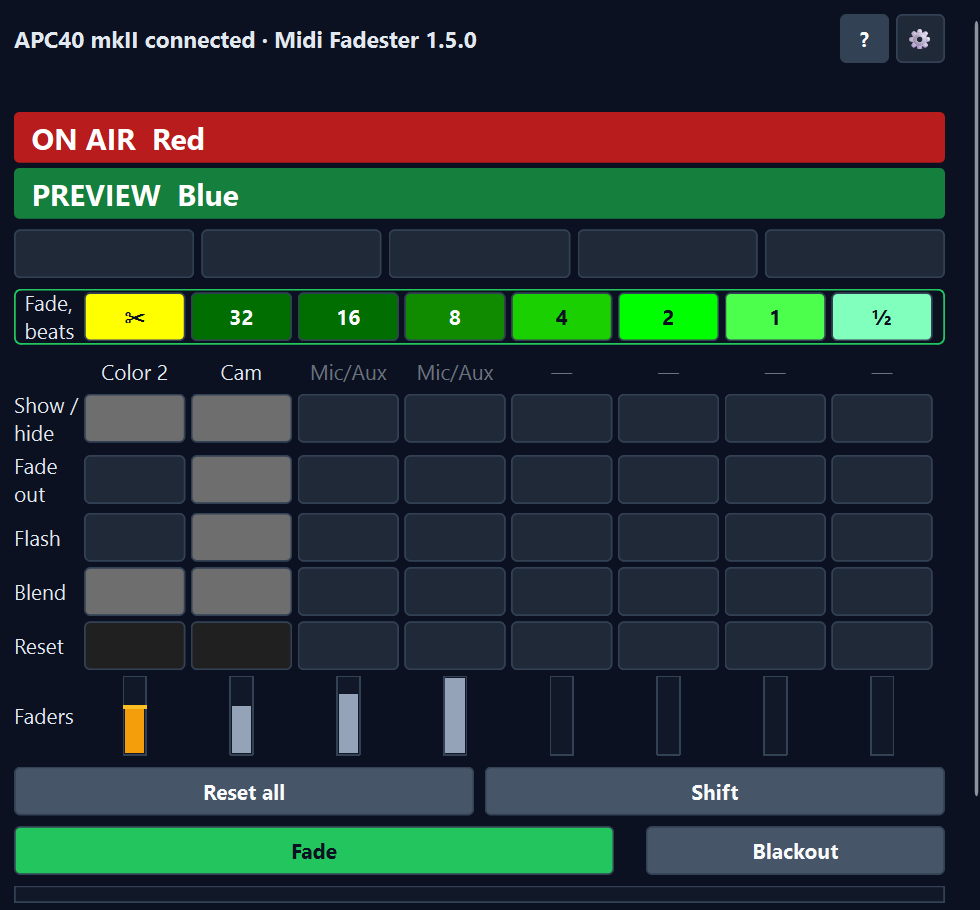
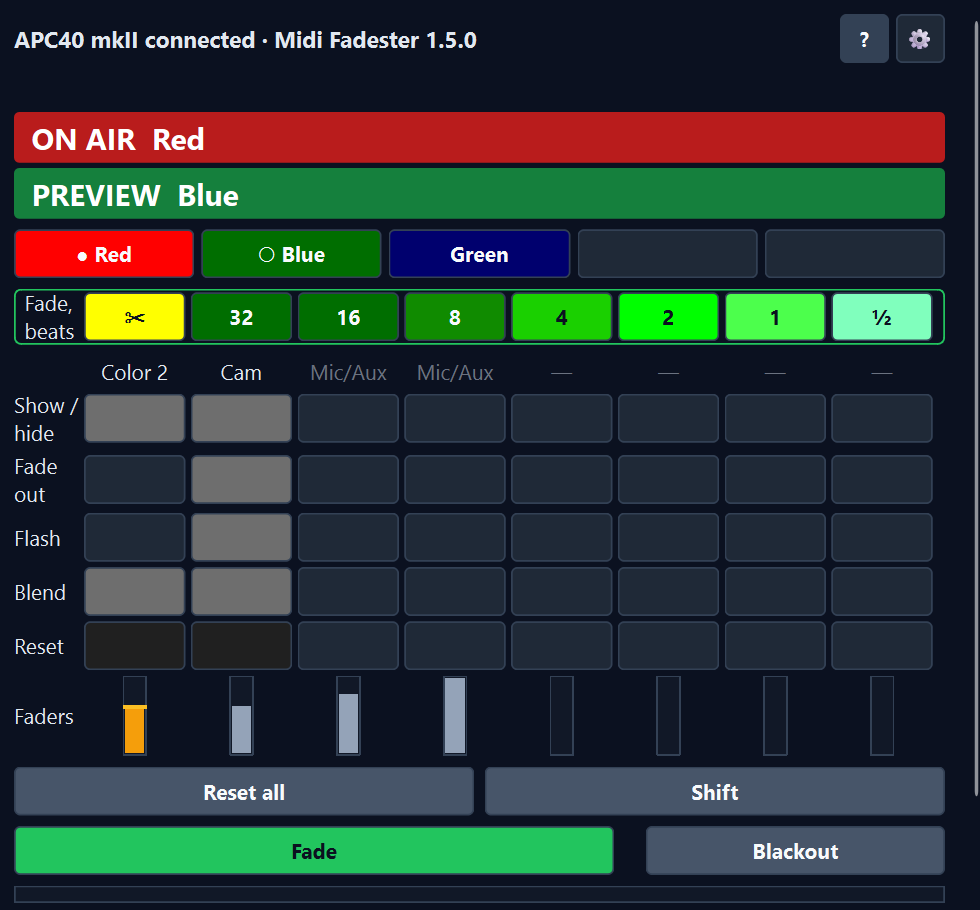
Release QA: the version on the Import and Export windows; release notes say exactly what the dock has
- The Import and Export file windows and their two warning boxes carry the version in their title, as every
  other Midi Fadester window does.
- README: Fade out, Cut out and Dark (hold) are pad rows, not buttons; a tooltip names the APC40's word where
  the two differ; Fade needs Studio Mode; the demo was recorded on a 0.9.1 development build.
- TESTING State 13: caption for the 1.5.0 dock; the picture's scene buttons now show three scenes (the test
  gives the dock a scene list for the render).
- Checked against the 0.9.0 tag: the error-code table and the ten request names are identical.

Changed region(s): [[0.0, 0.2462, 0.5816, 0.3077]]

diff --git a/src/ui/mfd-settings-dialog.cpp b/src/ui/mfd-settings-dialog.cpp
@@ -1222,8 +1222,9 @@ private:
 
 		connect(btn_import, &QPushButton::clicked, this, [this]() {
 			const QString path = QFileDialog::getOpenFileName(
-				this, mfdText("Dialog.Import.Title", "Import Midi Fadester Configuration"), QString(),
-				mfdText("Dialog.FileFilter.Json", "JSON Files (*.json);;All Files (*)"));
+				this,
+				mfdWindowTitle(mfdText("Dialog.Import.Title", "Import Midi Fadester Configuration")),
+				QString(), mfdText("Dialog.FileFilter.Json", "JSON Files (*.json);;All Files (*)"));
 			if (path.isEmpty()) {
 				return;
 			}
@@ -1232,7 +1233,8 @@ private:
 
 		connect(btn_export, &QPushButton::clicked, this, [this]() {
 			const QString path = QFileDialog::getSaveFileName(
-				this, mfdText("Dialog.Export.Title", "Export Midi Fadester Configuration"),
+				this,
+				mfdWindowTitle(mfdText("Dialog.Export.Title", "Export Midi Fadester Configuration")),
 				QStringLiteral("midi-fadester-config.json"),
 				mfdText("Dialog.FileFilter.Json", "JSON Files (*.json);;All Files (*)"));
 			if (path.isEmpty()) {
@@ -1240,7 +1242,9 @@ private:
 			}
 			if (!mfd_engine_export_config_file(eng_, path.toUtf8().constData())) {
 				QMessageBox::warning(
-					this, mfdText("Dialog.Export.Title", "Export Midi Fadester Configuration"),
+					this,
+					mfdWindowTitle(
+						mfdText("Dialog.Export.Title", "Export Midi Fadester Configuration")),
 					mfdFill(mfdText("Dialog.Export.Failed",
 							"Could not write %1. Choose another folder and try again."),
 						{QDir::toNativeSeparators(path)}));
@@ -1477,11 +1481,13 @@ private:
 			last_adv_topology_rev_ = ~0ULL;
 			refresh_from_engine();
 		} else {
-			QMessageBox::warning(this, mfdText("Dialog.Import.Title", "Import Midi Fadester Configuration"),
-					     mfdFill(mfdText("Dialog.Import.Failed",
-							     "Could not read %1. It is not a Midi Fadester settings "
-							     "file, or it is damaged. Nothing was changed."),
-						     {QDir::toNativeSeparators(path)}));
+			QMessageBox::warning(
+				this,
+				mfdWindowTitle(mfdText("Dialog.Import.Title", "Import Midi Fadester Configuration")),
+				mfdFill(mfdText("Dialog.Import.Failed",
+						"Could not read %1. It is not a Midi Fadester settings "
+						"file, or it is damaged. Nothing was changed."),
+					{QDir::toNativeSeparators(path)}));
 		}
 	}
 

diff --git a/tests/test-ui-dialog.cpp b/tests/test-ui-dialog.cpp
@@ -2296,11 +2296,18 @@ int main(int argc, char **argv)
 		const int was_learning = eng.learning_slot_index;
 		eng.setup_session.active = false; /* the pads lit, as on stage */
 		eng.learning_slot_index = -1;
+		/* the picture shows three scenes on the scene buttons; the count goes back right after it */
+		const int shot_scene_count = eng.cached_scene_count;
+		std::snprintf(eng.cached_scenes[0], sizeof(eng.cached_scenes[0]), "Red");
+		std::snprintf(eng.cached_scenes[1], sizeof(eng.cached_scenes[1]), "Blue");
+		std::snprintf(eng.cached_scenes[2], sizeof(eng.cached_scenes[2]), "Green");
+		eng.cached_scene_count = 3;
 		QWidget *desk = mfd_desk_dock_create(&eng);
 		desk->resize(560, 520);
 		desk->show();
 		pump_ui();
 		capture_and_verify_png(desk, screenshot_dir, QStringLiteral("13-desk-dock.png"));
+		eng.cached_scene_count = shot_scene_count;
 		/* what it shows: the version, and a live pad on a column with a source (column 1, Show / hide) */
 		auto *desk_title = desk->findChild<QLabel *>(QStringLiteral("mfdDeskTitle"));
 		/* the dock's own title bar says Fadester Desk; this line starts with what matters and holds the version */

diff --git a/README.md b/README.md
@@ -10,7 +10,7 @@ Midi Fadester turns the faders and knobs on a MIDI controller into live controls
 
 [![Demo: the APC40's top row fades and cuts between VJ scenes in time with the beat, Session blacks Program out, and the Fadester Desk dock follows](docs/demo/Midi-Fadester-0.9.1-demo-preview.webp)](docs/demo/Midi-Fadester-0.9.1-demo.mp4)
 
-**[Watch the one-minute demo](docs/demo/Midi-Fadester-0.9.1-demo.mp4)** (MP4, 7 MB): the crossfader throws the Studio Mode T-bar, the top row fades Preview to Program in time with the beat (1 bar, then 2 bars) and its yellow pad cuts, Session fades Program to black and back, channel faders fade the layers of the scene on air, Visual Sidechain's Beat Zoom moves with the music, and Panic turns every effect off; the Fadester Desk dock follows all of it. The "Your controller" APC40 in the corner is a drawing of the desk moves; OBS was driven by a script for the recording.
+**[Watch the one-minute demo](docs/demo/Midi-Fadester-0.9.1-demo.mp4)** (MP4, 7 MB, recorded on a 0.9.1 development build): the crossfader throws the Studio Mode T-bar, the top row fades Preview to Program in time with the beat (1 bar, then 2 bars) and its yellow pad cuts, Session fades Program to black and back, channel faders fade the layers of the scene on air, Visual Sidechain's Beat Zoom moves with the music, and Panic turns every effect off; the Fadester Desk dock follows all of it. The "Your controller" APC40 in the corner is a drawing of the desk moves; OBS was driven by a script for the recording.
 
 ![The Strips screen: a throw in progress on the crossfader, a two-layer mix, a layer fade, a volume and the master](docs/screenshots/03-strips-throwing-and-active.png)
 
@@ -314,8 +314,8 @@ the scene on air** fills empty faders the same way at any time. A newly filled f
 | Record | **Panic**, then **Restore** | Visual Sidechain **Panic**: all its effects off; press again to **Restore**. Blinks while panicked. |
 | Metronome | **Tap** | Visual Sidechain **tap tempo**. With Shift, **Hold BPM**: hold its BPM, or let it follow the music again. |
 
-The dock's words say what a button does; the APC40 keeps the words printed on it, and each dock button's tooltip names
-its hardware button (*On the APC40: Clip Stop*).
+The dock's words say what a button does; the APC40 keeps the words printed on it, and where the two differ the dock
+button's tooltip names its hardware button (*On the APC40: Clip Stop*).
 
 **Lights.** Scenes: Program red, Preview pulsing from dim to bright green, other scenes dim blue, no scene dark. Sources:
 dim white at their own blend, the blend colour when punched (Lighten azure, Screen yellow, Additive orange, Multiply violet, Subtract magenta),
@@ -383,7 +383,7 @@ These are planned phases 2 to 5 in [PLAN.md](PLAN.md).
 
 Releases are built by GitHub Actions from a version tag as a draft, then published on the [Releases](https://github.com/jbrick2070/midi-fadester/releases) page with checksums.
 
-**1.5.0** (November 2026) is the current release. It is the suite-wide step to 1.5: every product of the Fadester suite moves to 1.5 together, so Midi Fadester goes from 0.9.0 straight to 1.5.0, and Visual Sidechain, being part of it, is 1.5.0 too. Since 0.9.0: **on the APC40 mkII**, Session is now **Blackout** (Program fades to black and back, and nothing is added to your scenes), the top pad row cuts (pad 1, yellow) or fades Preview on air over 32 down to ½ beats at Visual Sidechain's tempo, pinning a column moved to Shift + Clip Stop, and a Scene Launch press on the scene already on air does nothing (see [APC40 mkII pads](#apc40-mkii-pads)). **A simpler screen**: every window shows the version in its title bar; the Fadester Desk dock has ON AIR and PREVIEW as its largest text, buttons named for what they do (**Reset**, **Reset all**, **Fade out**, **Cut out**, **Dark (hold)**; each tooltip names the APC40's own button), a **?** that explains the pads, a gear that opens the settings, an amber bar on a fader that waits to pick up, and scene buttons, **Fade** and **Blackout** that work without an APC40; on a new installation the APC40's usual layout is applied without a question and the dock opens once, while an installation that already has settings is left as it is; the Advanced tab is a map of the 18 strips with one **Edit...** per row; resetting all strips, **Not used** and **Import...** ask first; Set up starts Learn by itself on a strip with no control; Visual Sidechain's filter windows open on the controls most people need, with the rest behind **More settings**, and its effect names lost the "FFT" prefix. **Fixes from a code review of the whole repository**: an audio fader no longer drops out of pick-up when a scene change lands mid-move; Paste Filters can no longer freeze OBS with a Shader Filter or an Audio Modulator; a compiled shader no longer stays in memory until OBS exits; Flash Guard also guards filters it does not know; a long non-English source name can no longer crash OBS through obs-websocket; the Tape Deck no longer refuses every tape on macOS; HDR and 16-bit sources are no longer clipped below 100 % on a layer fader; an unplugged saved MIDI port shows as *name (missing)*; the settings window fits a 1080p laptop at 150 %; an Audio Modulator keeps a setting's own value when the filter it moves is renamed. **Languages**: Italian is new, which makes 13 languages; the Italian file is a model draft, not yet reviewed by a second model or a native speaker (see [Languages](#languages)). The Mac installer is titled Midi Fadester and ends with the three next steps in all 13. **If you update from an older version**: which MIDI control drives a strip is the user's, so per-user MIDI addresses that were kept per scene collection are no longer read once the settings file has a strip list (see [Where settings live](#where-settings-live)). **For scripts**: the vendor API's requests and error codes are unchanged; some error sentences are reworded in plain words, and a request field of the wrong type is now refused.
+**1.5.0** (November 2026) is the current release. It is the suite-wide step to 1.5: every product of the Fadester suite moves to 1.5 together, so Midi Fadester goes from 0.9.0 straight to 1.5.0, and Visual Sidechain, being part of it, is 1.5.0 too. Since 0.9.0: **on the APC40 mkII**, Session is now **Blackout** (Program fades to black and back, and nothing is added to your scenes), the top pad row cuts (pad 1, yellow) or fades Preview on air over 32 down to ½ beats at Visual Sidechain's tempo, pinning a column moved to Shift + Clip Stop, and a Scene Launch press on the scene already on air does nothing (see [APC40 mkII pads](#apc40-mkii-pads)). **A simpler screen**: every window shows the version in its title bar; the Fadester Desk dock has ON AIR and PREVIEW as its largest text, buttons and pad rows named for what they do (the buttons **Reset** and **Reset all**, the rows **Fade out**, **Cut out** and **Dark (hold)**; where the APC40 prints another word, as on Clip Stop and Stop All Clips, the tooltip names it), a **?** that explains the pads, a gear that opens the settings, an amber bar on a fader that waits to pick up, and scene buttons, **Fade** and **Blackout** that work without an APC40 (**Fade** needs Studio Mode); on a new installation the APC40's usual layout is applied without a question and the dock opens once, while an installation that already has settings is left as it is; the Advanced tab is a map of the 18 strips with one **Edit...** per row; resetting all strips, **Not used** and **Import...** ask first; Set up starts Learn by itself on a strip with no control; Visual Sidechain's filter windows open on the controls most people need, with the rest behind **More settings**, and its effect names lost the "FFT" prefix. **Fixes from a code review of the whole repository**: an audio fader no longer drops out of pick-up when a scene change lands mid-move; Paste Filters can no longer freeze OBS with a Shader Filter or an Audio Modulator; a compiled shader no longer stays in memory until OBS exits; Flash Guard also guards filters it does not know; a long non-English source name can no longer crash OBS through obs-websocket; the Tape Deck no longer refuses every tape on macOS; HDR and 16-bit sources are no longer clipped below 100 % on a layer fader; an unplugged saved MIDI port shows as *name (missing)*; the settings window fits a 1080p laptop at 150 %; an Audio Modulator keeps a setting's own value when the filter it moves is renamed. **Languages**: Italian is new, which makes 13 languages; the Italian file is a model draft, not yet reviewed by a second model or a native speaker (see [Languages](#languages)). The Mac installer is titled Midi Fadester and ends with the three next steps in all 13. **If you update from an older version**: which MIDI control drives a strip is the user's, so per-user MIDI addresses that were kept per scene collection are no longer read once the settings file has a strip list (see [Where settings live](#where-settings-live)). **For scripts**: the vendor API's requests and error codes are unchanged; some error sentences are reworded in plain words, and a request field of the wrong type is now refused.
 
 **0.9.0** (November 2026). **Visual Sidechain is now part of Midi Fadester**: one plugin, one install, one version. The installer removes the old separate Visual Sidechain plugin (on Windows its own uninstaller runs; the Mac package deletes the old `visual-sidechain.plugin`). Filter names, hotkeys, saved scenes and the `visual-sidechain` obs-websocket vendor are unchanged, so Fadester for OBS and the Companion keep working. If the old plugin is still found, Visual Sidechain stays off and the Fadester Desk dock shows which file to remove. See [Visual Sidechain is built in](#visual-sidechain-is-built-in).
 

diff --git a/TESTING.md b/TESTING.md
@@ -129,7 +129,9 @@ Choosing **`Filter or effect setting`** on any fader or FX strip opens Step 2's 
 
 ![State 12: Set up Filter or Effect Setting](docs/screenshots/12-setup-filter-step2.png)
 
-### State 13: Fadester Desk dock (0.8.0)
+### State 13: Fadester Desk dock
+
+The dock with an APC40 mkII connected: the title carries the version (`APC40 mkII connected · Midi Fadester 1.5.0`) beside the **?** and gear buttons; `ON AIR Red` and `PREVIEW Blue` are the largest text; under them the scene buttons (`Red`, `Blue`, `Green`), then the `Fade, beats` row with the yellow cut pad and the seven greens from 32 beats down to ½; the pad rows `Show / hide`, `Fade out`, `Flash`, `Blend` and `Reset` over the eight fader bars (fader 1 amber: it waits to pick up); and `Reset all`, `Shift`, the green `Fade` and `Blackout` at the bottom.
 
 ![State 13: Fadester Desk dock](docs/screenshots/13-desk-dock.png)
 
